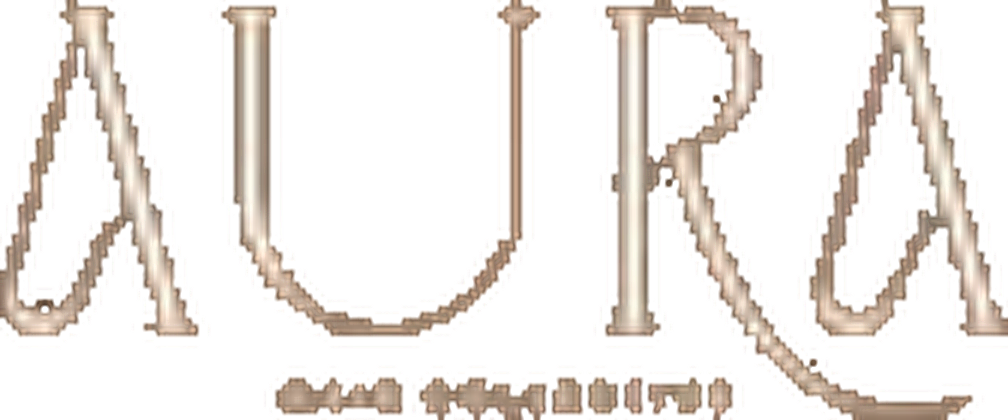
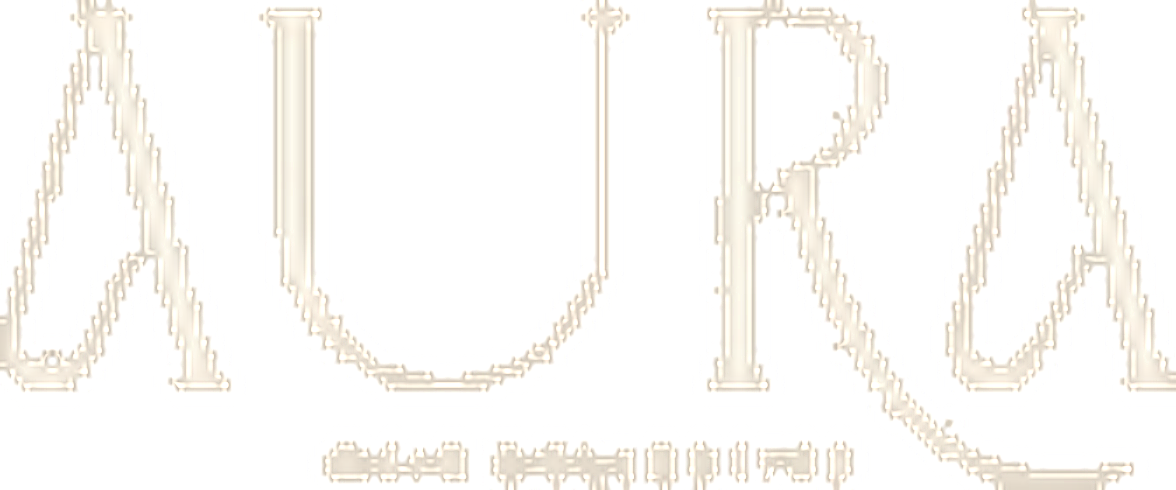
Aura: brighten and enlarge centred wordmark

diff --git a/sites/aura-hair-collective/aura-rebuild.css b/sites/aura-hair-collective/aura-rebuild.css
@@ -87,15 +87,15 @@ main h1, main h2, main h3, .lookbook__heading, .services__heading, .collective__
 main h2 { margin-bottom: max(1.4rem, .34em); }
 
 /* FINAL Aura header: centred transparent wordmark, exact logo-brown bar, no ring */
-.mast{--mast-h:200px!important;background:#7b5f4a!important;border-bottom:1px solid rgba(255,251,238,.22)!important;height:200px!important;padding:0!important;color:#fffbee!important;overflow:visible!important}
-.mast__inner{position:relative!important;height:200px!important;min-height:200px!important;display:flex!important;align-items:center!important;justify-content:center!important;padding:0!important}
-.mast__brand{position:absolute!important;left:50%!important;top:50%!important;transform:translate(-50%,-50%)!important;z-index:5!important;display:flex!important;align-items:center!important;justify-content:center!important;width:320px!important;height:133px!important;margin:0!important;padding:0!important;border:0!important;border-radius:0!important;background:transparent!important;box-shadow:none!important}
-.mast__roundel{display:block!important;width:320px!important;height:133px!important;max-width:none!important;flex:0 0 320px!important;object-fit:contain!important;border:0!important;border-radius:0!important;background:transparent!important;box-shadow:none!important;image-rendering:auto!important}
+.mast{--mast-h:210px!important;background:#7b5f4a!important;border-bottom:1px solid rgba(255,251,238,.22)!important;height:210px!important;padding:0!important;color:#fffbee!important;overflow:visible!important}
+.mast__inner{position:relative!important;height:210px!important;min-height:210px!important;display:flex!important;align-items:center!important;justify-content:center!important;padding:0!important}
+.mast__brand{position:absolute!important;left:50%!important;top:50%!important;transform:translate(-50%,-50%)!important;z-index:5!important;display:flex!important;align-items:center!important;justify-content:center!important;width:360px!important;height:150px!important;margin:0!important;padding:0!important;border:0!important;border-radius:0!important;background:transparent!important;box-shadow:none!important}
+.mast__roundel{display:block!important;width:360px!important;height:150px!important;max-width:none!important;flex:0 0 360px!important;object-fit:contain!important;border:0!important;border-radius:0!important;background:transparent!important;box-shadow:none!important;image-rendering:auto!important}
 .mast__lockup{display:none!important}
 .mast__nav{position:absolute!important;left:24px!important;top:50%!important;transform:translateY(-50%)!important;margin:0!important;display:flex!important;align-items:center!important;gap:1.35rem!important;font-size:.82rem!important;letter-spacing:.09em!important;color:#fffbee!important}
 .mast__nav>a,.mast__menu summary{color:#fffbee!important}
 .mast__nav>a:hover,.mast__menu summary:hover,.mast__menu[open] summary{color:#dec1a9!important;border-bottom-color:#dec1a9!important}
 .mast__book{position:absolute!important;right:24px!important;top:50%!important;transform:translateY(-50%)!important;background:#dec1a9!important;border-color:#dec1a9!important;color:#211a15!important}
 .mast__toggle{position:absolute!important;right:16px!important;top:50%!important;transform:translateY(-50%)!important;color:#fffbee!important;border-color:rgba(255,251,238,.4)!important}
-@media(max-width:1120px){.mast__roundel{width:260px!important;height:108px!important;flex-basis:260px!important}.mast__brand{width:260px!important;height:108px!important}.mast__nav{gap:.9rem!important;font-size:.72rem!important}}
-@media(max-width:900px){.mast{--mast-h:150px!important;height:150px!important}.mast__inner{height:150px!important;min-height:150px!important}.mast__brand{width:220px!important;height:92px!important}.mast__roundel{width:220px!important;height:92px!important;flex-basis:220px!important}.mast__nav{display:none!important}.mast__book{display:none!important}.mast__toggle{display:inline-flex!important}}
+@media(max-width:1120px){.mast__roundel{width:300px!important;height:125px!important;flex-basis:300px!important}.mast__brand{width:300px!important;height:125px!important}.mast__nav{gap:.9rem!important;font-size:.72rem!important}}
+@media(max-width:900px){.mast{--mast-h:160px!important;height:160px!important}.mast__inner{height:160px!important;min-height:160px!important}.mast__brand{width:250px!important;height:104px!important}.mast__roundel{width:250px!important;height:104px!important;flex-basis:250px!important}.mast__nav{display:none!important}.mast__book{display:none!important}.mast__toggle{display:inline-flex!important}}

diff --git a/sites/aura-hair-collective/index.html b/sites/aura-hair-collective/index.html
@@ -23,7 +23,7 @@
     <link rel="preload" as="image" href="./img/DGJ7jvBTowB-960.avif" type="image/avif" fetchpriority="high" />
     <link rel="stylesheet" href="./styles.css?v=logo-large-1" />
     <link rel="stylesheet" href="./hero-3d.css?v=pearl-3" />
-    <link rel="stylesheet" href="./aura-rebuild.css?v=wordmark-20261119" />
+    <link rel="stylesheet" href="./aura-rebuild.css?v=wordmark2-20261119" />
     <script type="application/ld+json">
       {
         "@context": "https://schema.org",
@@ -51,7 +51,7 @@
     <header class="mast">
       <div class="shell mast__inner">
         <a class="mast__brand" href="#top" aria-label="Aura Hair Collective — Home">
-          <img class="mast__roundel" src="./img/aura-wordmark.png" width="1008" height="420" alt="Aura Hair Collection" decoding="sync" />
+          <img class="mast__roundel" src="./img/aura-wordmark.png" width="1176" height="490" alt="Aura Hair Collection" decoding="sync" />
           <span class="mast__lockup">
             <span class="mast__title">Aura Hair Collective</span>
             <span class="mast__loc">Carey Bay &middot; Lake Macquarie</span>
